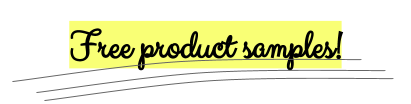
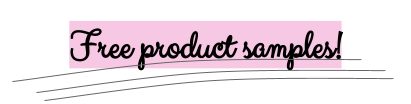
Update to Shops Template
- Changes highlight color of the CTA to pink
- Adds the blurb at the top
- Changes the training image header

Changed region(s): [[0.146, 0.2019, 0.8467, 0.6635]]

diff --git a/email_marketing/shops_waitlist/template_shops_email.html b/email_marketing/shops_waitlist/template_shops_email.html
@@ -16,7 +16,8 @@
     <!--Product Picks-->
     <div style="margin:0 auto;min-width:320px;word-wrap:break-word;word-break:break-word; display: block;">
       <!--Header Image-->
-      <img style="border:0;display:block;height:auto;width:80%;max-width:600px; margin: 0 auto; margin-top: 20px; padding-top: 50px; padding-bottom: 50px;" alt="Cozy up in our Fabulous Sweaters" src="https://wyattgrantham.com/marketing/Images/190221_ss_hero_2.png">
+      <img style="border:0;display:block;height:auto;width:80%;max-width:600px; margin: 0 auto; margin-top: 20px; padding-top: 50px; padding-bottom: 10px;" alt="Cozy up in our Fabulous Sweaters" src="https://wyattgrantham.com/marketing/Images/190221_ss_hero_2.png">
+      <p style="font-family: 'Muli', sans-serif; font-size: 15px; padding-bottom: 50px; margin: 0 auto; text-align: center; max-width: 600px;">Add these products and <strong>many </strong>more to your risk-free Sonlet Shop included with your Sonlet subscription. These featured items are only available until March 8!</p>
 
       <!--Product Group-->
       <div style="text-align:center;font-size:14px;line-height:21px;font-family: 'Muli',sans-serif; margin: 0 auto; max-width: 750px;">
@@ -71,9 +72,8 @@
       
     </div><!--/Product Picks-->
     <!--Training-->
-    <div style="margin:0 auto; min-width: 280px;word-wrap:break-word;word-break:break-word; display: block; background-color: #d9d9d9; margin-left: 20px; margin-right: 20px; margin-bottom: 40px; margin-top: 50px; border-radius: 4px; text-align: center;">
+    <div style="margin:0 auto; min-width: 280px;word-wrap:break-word;word-break:break-word; display: block; margin-left: 20px; margin-right: 20px; margin-bottom: 40px; margin-top: 50px; border-radius: 4px; text-align: center;">
       <img src="https://wyattgrantham.com/marketing/Images/ss_training.png" style="border:0;display:block;height:auto;width:80%;max-width:600px; margin: 0 auto; margin-top: 20px;" alt="Come Sell with Us!">
-      <p style="font-family: 'Muli', sans-serif; text-align: center; margin: 0 auto; max-width: 600px;">You sell it, We ship it!  Sell great product to your customers without managing inventory.  Earn up to 35% commissions!</p>
       <!--Training Video-->
       <a href="https://support.sonlet.com/support/solutions/articles/16000087859-how-to-setup-sonlet-shops" target="_blank" style="margin: 0 auto; margin-bottom: 20px; margin-top: 20px; text-align: center; display: inline-block; width: 200px;font-family: 'Muli', sans-serif; text-decoration: none;">
         <img style="border:0;display:block;height:auto;width:100%;max-width:320px;" alt="Link to How-to Video" src="https://wyattgrantham.com/marketing/Images/how_to_ss.png">
@@ -85,4 +85,4 @@
     <div style="background-image: url(/Images/ss_footer.png); background-position: left; background-repeat: no-repeat;height: 50px; width: 100%;">&nbsp;</div>
     
   </div><!--/Email container-->
-  </body>
+</body>
